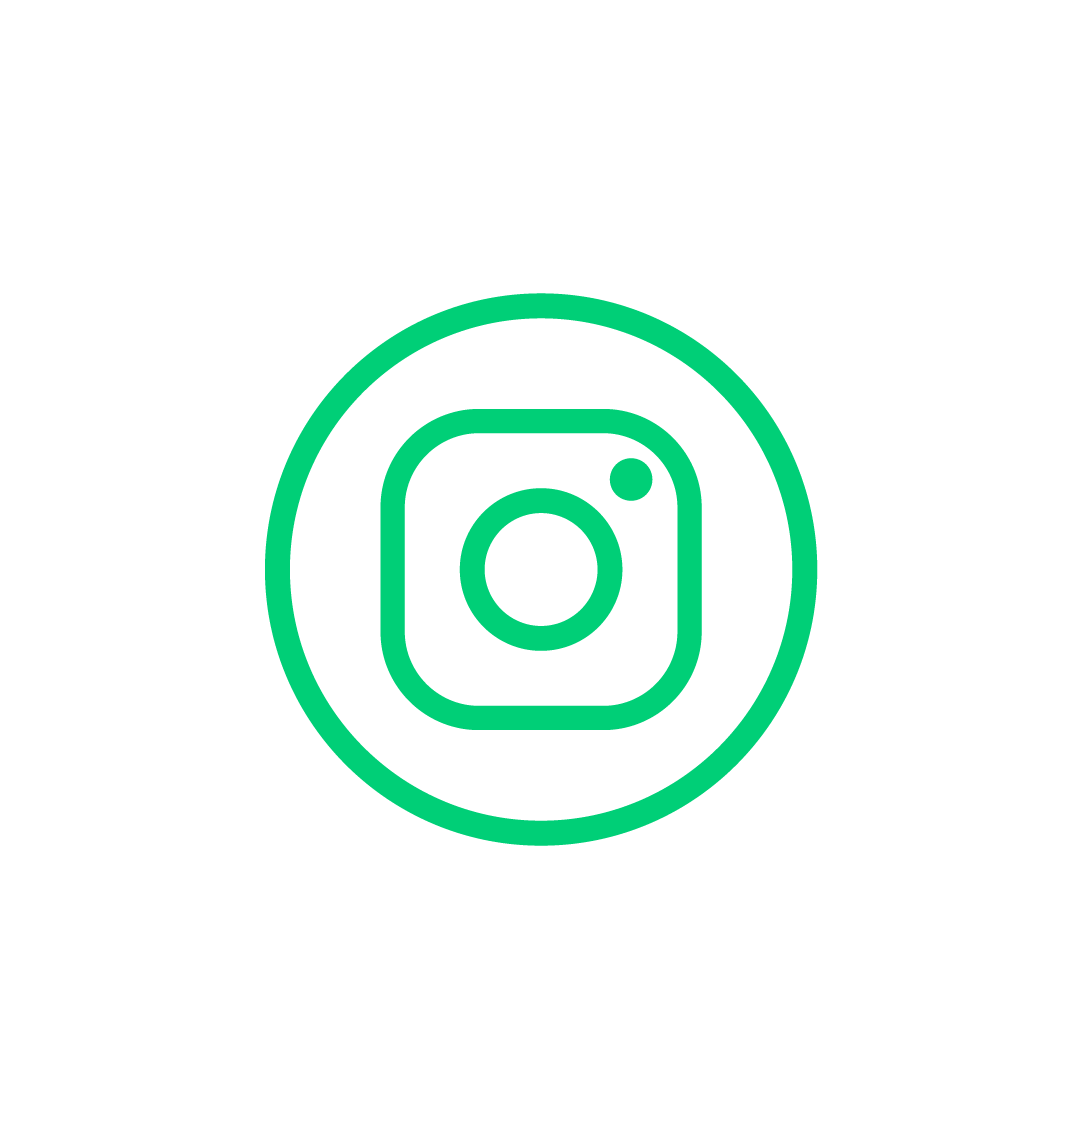
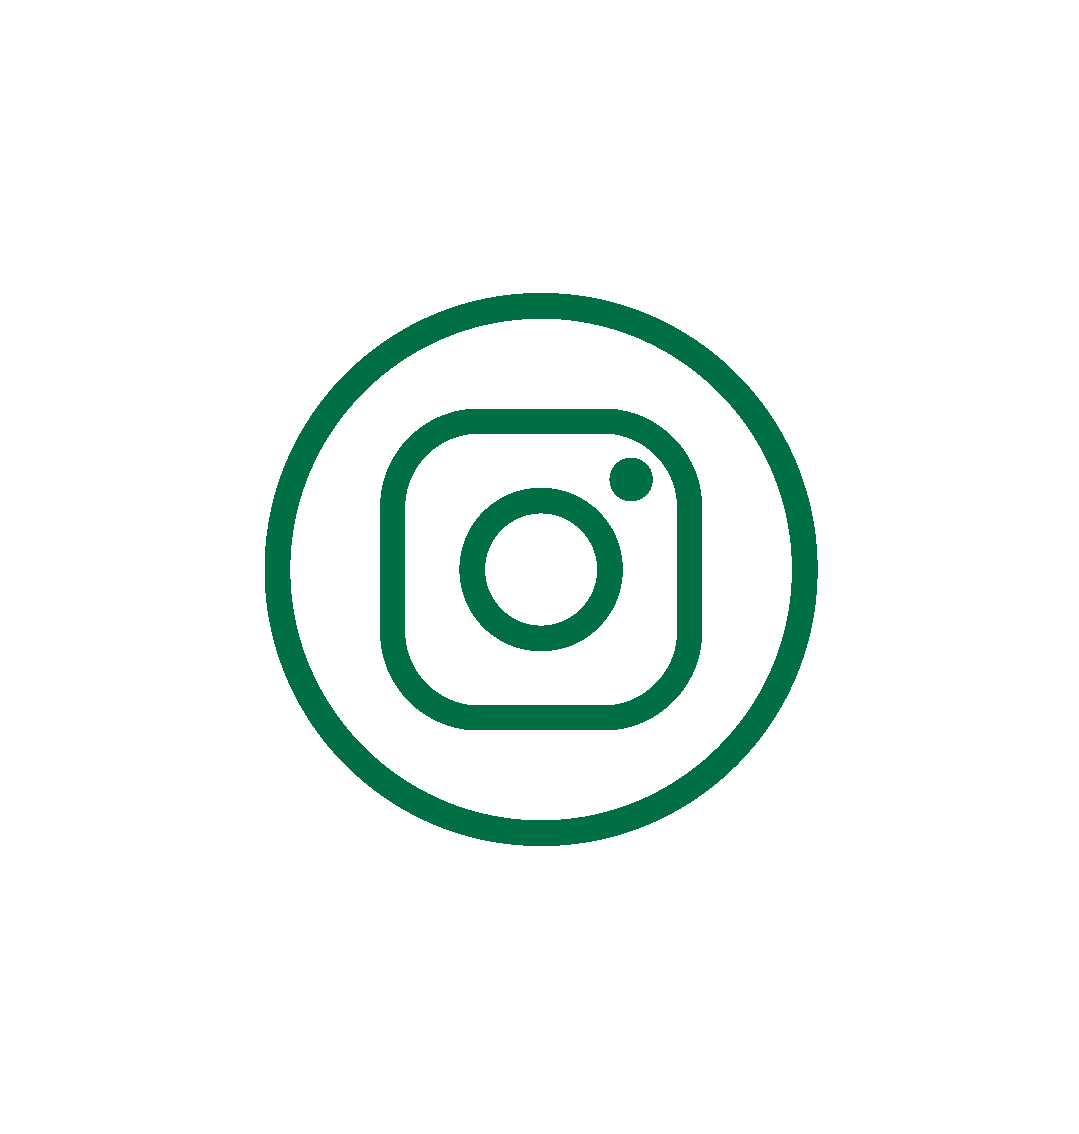
adding instagram

Changed region(s): [[0.2447, 0.2469, 0.7646, 0.7716], [0.3364, 0.3395, 0.6728, 0.6481]]

diff --git a/app/components/mobile/FooterMobile.jsx b/app/components/mobile/FooterMobile.jsx
@@ -1,4 +1,5 @@
 import React, {useState} from 'react';
+import IG from '~/assets/SalonVertIG.png';
 import {Image} from '@shopify/hydrogen';
 
 function FooterMobile({instagram = false}) {
@@ -53,18 +54,21 @@ function FooterMobile({instagram = false}) {
             />
           </a>
         )}
-        <p className="moderat-bold text-center text-sm leading-relaxed" style={{color: '#00d58d'}}>
+        <p
+          className="moderat-bold text-center text-sm leading-relaxed"
+          style={{color: '#00d58d'}}
+        >
           Maison Passerelle is part of Printemps new york, For more information
           sign up for our newsletter
         </p>
       </div>
 
       {/* Footer Newsletter Section */}
-      <div className="bg-[#00d58d] flex flex-col items-center gap-4 py-6 px-4">
+      <div className="bg-[#00d58d] flex flex-col items-center gap-4 pt-6 px-4">
         <p className="moderat-bold text-center text-sm text-black">
           {state.isSubmitted ? 'Merci!' : 'Sign up for our newsletter'}
         </p>
-        
+
         {state.isSubmitted ? (
           <p className="moderat-bold text-center text-sm text-black">
             Check your email for updates
@@ -80,8 +84,8 @@ function FooterMobile({instagram = false}) {
             />
             <button
               className={`w-full py-3 px-6 rounded-md moderat-bold text-sm ${
-                validEmail.test(email) 
-                  ? 'bg-[#006f43] text-white' 
+                validEmail.test(email)
+                  ? 'bg-[#006f43] text-white'
                   : 'bg-gray-300 text-gray-500'
               }`}
               onClick={handleSubmit}
@@ -90,6 +94,15 @@ function FooterMobile({instagram = false}) {
             >
               Submit
             </button>
+            <div className="flex justify-center">
+              <a
+                href="https://urlgeni.us/instagram/salonvertnyc"
+                target="_blank"
+                rel="noopener noreferrer"
+              >
+                <Image src={IG} alt="Instagram Logo" width={80} />
+              </a>
+            </div>
           </div>
         )}
       </div>

diff --git a/app/components/FooterComponent.jsx b/app/components/FooterComponent.jsx
@@ -1,4 +1,5 @@
 import React, {useState} from 'react';
+import IG from '~/assets/SalonVertIG.png';
 import {Image} from '@shopify/hydrogen';
 function FooterComponent({instagram = false}) {
   const [state, setState] = useState({
@@ -33,7 +34,7 @@ function FooterComponent({instagram = false}) {
     /^(([^<>()\[\]\.,;:\s@\"]+(\.[^<>()\[\]\.,;:\s@\"]+)*)|(\".+\"))@(([^<>()[\]\.,;:\s@\"]+\.)+[^<>()[\]\.,;:\s@\"]{2,})$/i,
   );
   return (
-    <div className="footer-container">
+    <div className="footer-container relative overflow-hidden">
       <div className="above-footer bg-[#006f43]">
         {instagram && (
           <a
@@ -49,8 +50,8 @@ function FooterComponent({instagram = false}) {
           </a>
         )}
         <p className="moderat-bold sign-up-text" style={{color: '#00d58d'}}>
-          Salon Vert is part of Printemps new york, For more information
-          sign up for our newsletter
+          Salon Vert is part of Printemps new york, For more information sign up
+          for our newsletter
         </p>
       </div>
       <div className="footer-area">
@@ -93,6 +94,15 @@ function FooterComponent({instagram = false}) {
             </p>
           </button>
         )}
+      </div>
+      <div className="absolute top-[35px] right-0">
+        <a
+          href="https://urlgeni.us/instagram/salonvertnyc"
+          target="_blank"
+          rel="noopener noreferrer"
+        >
+          <Image src={IG} alt="Instagram Logo" width={60} />
+        </a>
       </div>
     </div>
   );
